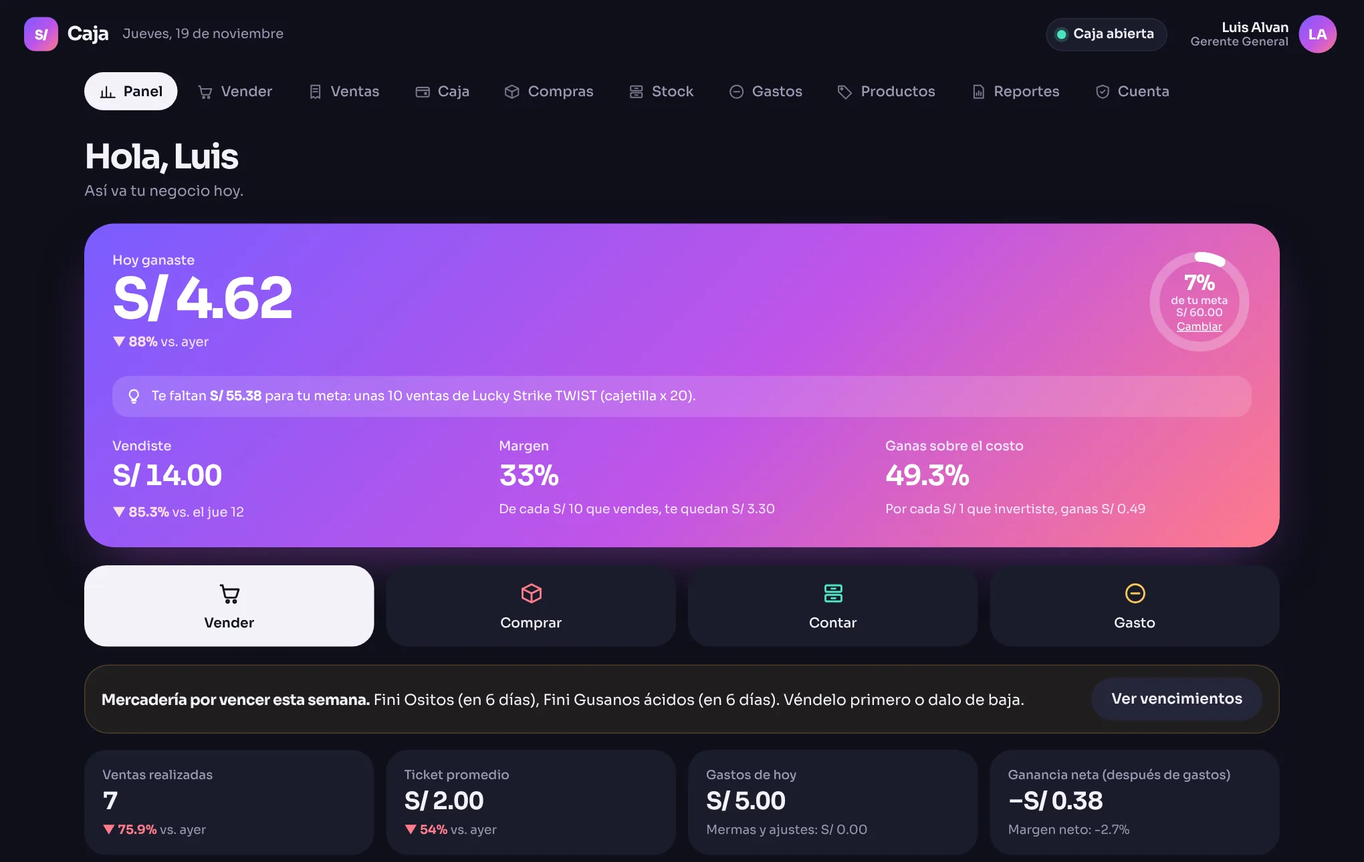
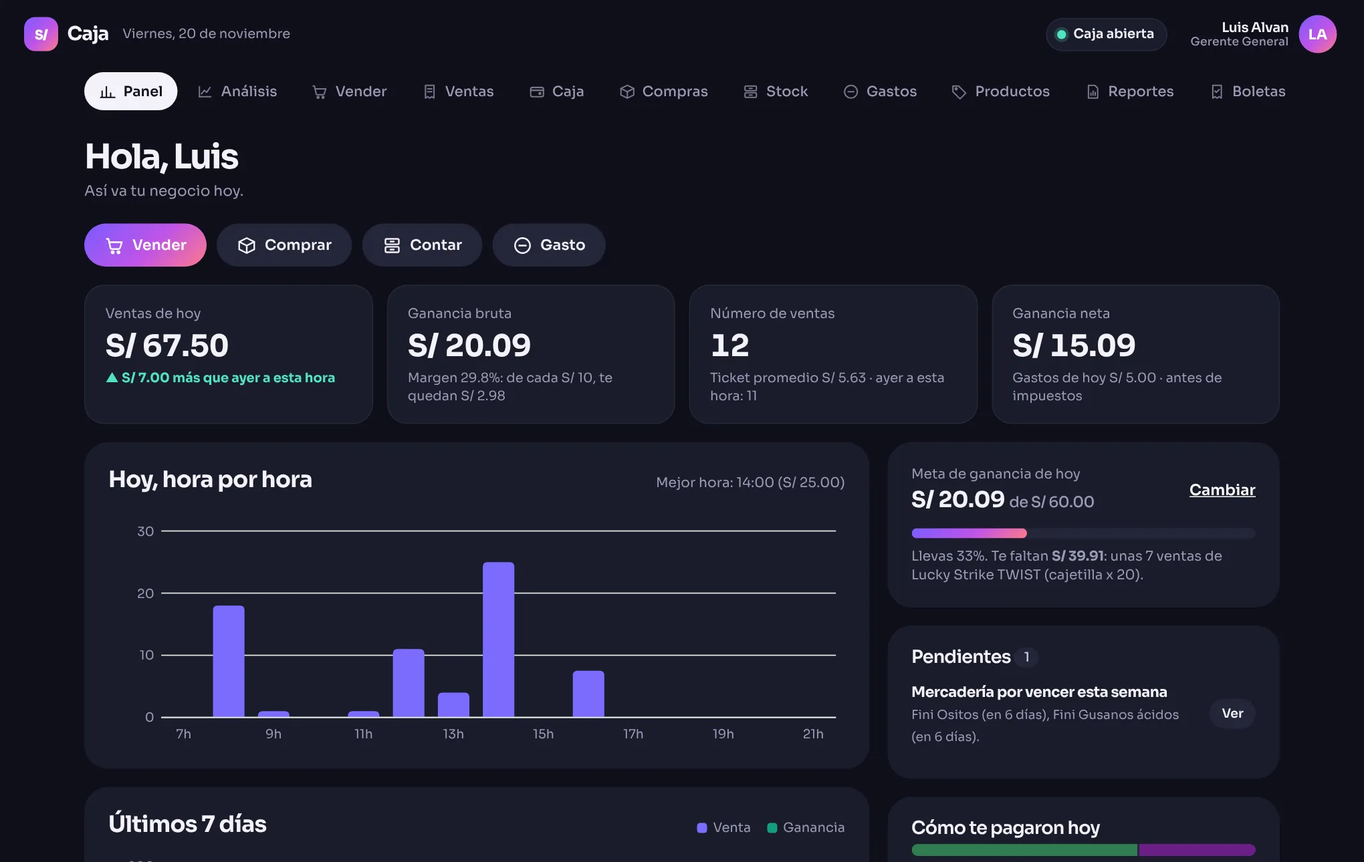
Panel rediseñado: indicadores sobrios, comparaciones en soles y dos columnas
- Sin el bloque de degradado: 4 indicadores del mismo peso (ventas, ganancia bruta, n.º de ventas, ganancia neta)
- Comparación en soles contra ayer a la misma hora (sin porcentajes engañosos con pocas ventas)
- Laptop: hoy (gráficos y productos) a la izquierda; meta, pendientes, cobros, boletas y resumen a la derecha
- Celular: orden lógico, sin desbordes; meta como barra; resumen y recordatorio plegables
- Acciones rápidas compactas; capturas del README actualizadas; 80 pruebas

Claude-Session: https://claude.ai/code/session_01A819e7RNk7XQ6c1SRtXq9S

diff --git a/index.html b/index.html
@@ -4,7 +4,7 @@
 <meta charset="utf-8">
 <meta name="referrer" content="no-referrer">
 <meta name="viewport" content="width=device-width, initial-scale=1, viewport-fit=cover">
-<meta http-equiv="Content-Security-Policy" content="default-src 'none'; script-src https://cdn.jsdelivr.net 'wasm-unsafe-eval' 'sha256-YQQNBGWMDX6Y83OlLrINX8KFzgg1oJWk24QcOodCahM='; style-src 'unsafe-inline' https://fonts.googleapis.com; font-src https://fonts.gstatic.com; img-src 'self' data: blob:; worker-src 'self' blob:; connect-src 'self' https://keygysddihxgukmdggyy.supabase.co wss://keygysddihxgukmdggyy.supabase.co https://cdn.jsdelivr.net https://api.pwnedpasswords.com; base-uri 'none'; form-action 'none'; manifest-src 'self'">
+<meta http-equiv="Content-Security-Policy" content="default-src 'none'; script-src https://cdn.jsdelivr.net 'wasm-unsafe-eval' 'sha256-FPF6I+OpfKEM0rt603rw0XiWgP4hmSzxKcH5LOtzemY='; style-src 'unsafe-inline' https://fonts.googleapis.com; font-src https://fonts.gstatic.com; img-src 'self' data: blob:; worker-src 'self' blob:; connect-src 'self' https://keygysddihxgukmdggyy.supabase.co wss://keygysddihxgukmdggyy.supabase.co https://cdn.jsdelivr.net https://api.pwnedpasswords.com; base-uri 'none'; form-action 'none'; manifest-src 'self'">
 <meta name="referrer" content="no-referrer">
 <meta name="theme-color" content="#0E0F1A">
 <link rel="manifest" href="manifest.webmanifest">
@@ -502,6 +502,28 @@ a.btn{text-decoration:none}#alertaCierreBar>div{flex:1;min-width:0}#alertaCierre
 .mad-fila b{display:block;font-size:14px}.mad-fila small{color:var(--gris);font-size:12.5px}.mad-fila span{font-size:13px;color:var(--gris);text-align:right}
 .mad-barra{height:8px;background:var(--tono);border-radius:4px;overflow:hidden}.mad-barra i{display:block;height:100%;background:var(--ambar)}.mad-fila.ok .mad-barra i{background:var(--menta)}.mad-fila.ok span{color:var(--menta)}
 @media(max-width:600px){.cas-fila{grid-template-columns:1fr auto}.cas-barra{grid-column:1/-1;order:3}.mad-fila{grid-template-columns:1fr 64px}.mad-barra{grid-column:1/-1;order:3}}
+.pn-acciones{display:flex;gap:10px;flex-wrap:wrap;margin:0 0 18px}
+.pn-acciones .btn{display:inline-flex;align-items:center;gap:8px}
+.pn-acciones .btn svg{width:20px;height:20px}
+.pn-kpis{display:grid;gap:14px;grid-template-columns:repeat(4,minmax(0,1fr));margin-bottom:18px}
+.pn-kpi{background:var(--blanco);border:1px solid #FFFFFF0F;border-radius:20px;padding:18px 20px;display:flex;flex-direction:column;gap:6px;min-width:0}
+.pn-kpi small{color:var(--gris);font-size:13.5px}
+.pn-kpi>b{font-size:30px;line-height:1.1;letter-spacing:-.02em;font-variant-numeric:tabular-nums}
+.pn-cmp{color:var(--gris);font-size:13px;line-height:1.4}.pn-cmp.sube{color:var(--menta)}.pn-cmp.baja{color:var(--coral)}
+.pn-grid{display:grid;gap:18px;grid-template-columns:minmax(0,1fr);grid-template-areas:"s1" "m" "s2"}
+.pn-s1{grid-area:s1}.pn-m{grid-area:m}.pn-s2{grid-area:s2}
+.pn-s1,.pn-m,.pn-s2{display:grid;grid-template-columns:minmax(0,1fr);gap:18px;align-content:start;min-width:0}
+.pn-s1>.panel,.pn-m>.panel,.pn-s2>.panel,.pn-s2>#boletasPanel>.panel{margin:0}
+@media(min-width:1000px){.pn-grid{grid-template-columns:minmax(0,2fr) minmax(300px,1fr);grid-template-rows:auto 1fr;grid-template-areas:"m s1" "m s2";align-items:start}}
+.pn-cab{display:flex;justify-content:space-between;align-items:baseline;gap:12px;flex-wrap:wrap;margin-bottom:10px}.pn-cab h2{margin:0}
+.pn-meta-cab{display:flex;justify-content:space-between;align-items:center;gap:12px}
+.pn-meta-cab small{color:var(--gris);font-size:13.5px;display:block}.pn-meta-cab b{font-size:22px}.pn-meta-cab b span{font-size:15px;color:var(--gris);font-weight:500}
+.pn-meta-vacia{color:var(--gris)}
+.pn-meta-barra{height:10px;background:var(--tono);border-radius:6px;overflow:hidden;margin-top:12px}.pn-meta-barra i{display:block;height:100%;background:var(--brillo);border-radius:6px}
+.pn-det{margin-top:12px}.pn-det summary{cursor:pointer;color:var(--gris);font-size:14px}.pn-det .envio-txt{margin-top:10px}
+.pn-s2 .envio-btns{display:flex;gap:8px;flex-wrap:wrap;margin-top:6px}
+@media(max-width:999px){.pn-kpis{grid-template-columns:repeat(2,minmax(0,1fr))}}
+@media(max-width:420px){.pn-kpi{padding:14px 16px}.pn-kpi>b{font-size:24px}.pn-acciones .btn{flex:1 1 calc(50% - 10px);justify-content:center}}
 .acciones-pagina{display:flex;gap:10px;flex-wrap:wrap;margin:0 0 18px}.acciones-pagina .btn{gap:8px;padding:13px 20px}
 .cats{display:grid;grid-template-columns:repeat(auto-fill,minmax(250px,1fr));gap:12px;margin-top:14px}
 .cat-card{background:var(--tono);border:0;border-radius:20px;padding:16px;text-align:left;color:var(--texto);font:inherit;display:flex;flex-direction:column;gap:12px}
@@ -1212,46 +1234,66 @@ async function vPanel(el) {
     !con2 && { t: 'Tu cuenta solo tiene contraseña', d: 'Activa la verificación en dos pasos: sin el código de tu celular nadie entra.', b: '<button class="btn claro mini" data-ir="cuenta">Activar</button>' },
     (resp === null || resp >= 7) && { t: resp === null ? 'Aún no tienes copia de seguridad' : `Tu última copia fue hace ${resp} días`, d: 'Descárgala en un minuto para no perder tus datos.', b: '<button class="btn claro mini" data-ir="cuenta">Hacer copia</button>' },
   ].filter(Boolean);
+  // Comparación en soles (no en %): con pocas ventas, un porcentaje exagera cualquier diferencia
+  const cmpS = (hoyV, ref, txt) => {
+    if (ref == null) return '';
+    const dif = r2(hoyV - ref);
+    if (hoyV === 0 && ref === 0) return `<span class="pn-cmp">${txt[0].toUpperCase() + txt.slice(1)}: sin ventas</span>`;
+    if (hoyV === 0) return `<span class="pn-cmp">${txt[0].toUpperCase() + txt.slice(1)}: ${S(ref)}</span>`;
+    if (Math.abs(dif) < 0.005) return `<span class="pn-cmp">Igual que ${txt}</span>`;
+    return `<span class="pn-cmp ${dif > 0 ? 'sube' : 'baja'}">${dif > 0 ? '▲' : '▼'} ${S(Math.abs(dif))} ${dif > 0 ? 'más' : 'menos'} que ${txt}</span>`;
+  };
+  const fechaHoy = new Date(h + 'T12:00:00-05:00').toLocaleDateString('es-PE', { timeZone: 'America/Lima', weekday: 'long', day: 'numeric', month: 'long' });
   el.innerHTML = `
-  <section class="heroe" aria-label="Rendimiento de hoy">
-    <div class="heroe-top"><div><small>Ganancia bruta de hoy</small><div class="grande">${S(gb(H0))}</div>${ayerHora ? variacion(gb(H0), ayerHora.ganancia, 'vs. ayer a esta hora') : ''}</div>
-      ${meta ? `<div class="anillo" role="progressbar" aria-label="Meta del día" aria-valuemin="0" aria-valuemax="100" aria-valuenow="${Math.round(Math.min(avance, 100))}"><svg viewBox="0 0 36 36"><circle cx="18" cy="18" r="15.5" class="pista"/><circle cx="18" cy="18" r="15.5" class="avance" stroke-dasharray="${(Math.min(avance, 100) * 0.974).toFixed(1)} 97.4"/></svg>
-        <div><b>${avance >= 100 ? '¡Listo!' : Math.floor(avance) + '%'}</b><small>de tu meta<br>${S(meta)}</small><button id="metaCambiar">Cambiar</button></div></div>`
-      : `<button class="lnk claro-lnk" id="metaCambiar">Ponerte una meta diaria</button>`}</div>
-    ${meta && avance < 100 ? `<p class="consejo">${icoTip}<span>Te faltan <b>${S(meta - gb(H0))}</b> para tu meta${faltan ? `: unas ${faltan}` : ''}.</span></p>` : meta ? `<p class="consejo">${icoTip}<span><b>¡Cumpliste tu meta!</b> Ganaste ${S(gb(H0) - meta)} más de lo que te propusiste.</span></p>` : `<p class="consejo">${icoTip}<span><b>Ganancia</b> es lo que vendiste menos lo que te costó la mercadería.</span></p>`}
-    <div><small>Vendiste</small><div class="med">${S(vn(H0))}</div>${semHora ? variacion(vn(H0), semHora.venta, 'vs. el ' + nomDia(semana).replace('.', '') + ' a esta hora') : ''}</div>
-    <div><small>Margen</small><div class="med">${margen(H0) === null ? '—' : P(margen(H0))}</div><div class="explica">${margen(H0) === null ? 'Aparece cuando vendas' : `De cada S/ 10 que vendes, te quedan ${S(margen(H0) / 10)}`}</div></div>
-    <div><small>Ventas realizadas</small><div class="med">${nVentas}</div><div class="explica">${nVentas ? `Ticket promedio ${S(ticketProm)}` : 'Aún no vendes hoy'}${ayerHora ? ` · ayer a esta hora: ${ayerHora.n}` : ''}</div></div>
+  <div class="pn-acciones" aria-label="Accesos rápidos">
+    <button class="btn rotulo" data-ir="vender">${ico('vender', 20)}<span>Vender</span></button>
+    <button class="btn claro" data-ir="compras">${ico('compras', 20)}<span>Comprar</span></button>
+    <button class="btn claro" data-ir="stock">${ico('stock', 20)}<span>Contar</span></button>
+    <button class="btn claro" data-ir="gastos">${ico('gastos', 20)}<span>Gasto</span></button>
+  </div>
+  <section class="pn-kpis" aria-label="Indicadores de hoy, ${fechaHoy}">
+    <div class="pn-kpi"><small>Ventas de hoy</small><b>${S(vn(H0))}</b>${cmpS(vn(H0), ayerHora?.venta ?? null, 'ayer a esta hora')}</div>
+    <div class="pn-kpi"><small>Ganancia bruta</small><b>${S(gb(H0))}</b><span class="pn-cmp">${margen(H0) === null ? 'Margen: aparece cuando vendas' : `Margen ${P(margen(H0))}: de cada S/ 10, te quedan ${S(margen(H0) / 10)}`}</span></div>
+    <div class="pn-kpi"><small>Número de ventas</small><b>${nVentas}</b><span class="pn-cmp">${nVentas ? `Ticket promedio ${S(ticketProm)}` : 'Aún no vendes hoy'}${ayerHora ? ` · ayer a esta hora: ${ayerHora.n}` : ''}</span></div>
+    <div class="pn-kpi"><small>Ganancia neta</small><b>${S(gn(H0))}</b><span class="pn-cmp">${gastosMes ? `Gastos de hoy ${S(gastos(H0))} · antes de impuestos` : '<span class="chip mal">Sin gastos registrados: sobrestimada</span>'}</span></div>
   </section>
-  <nav class="atajos" aria-label="Accesos rápidos"><button data-ir="vender">${ico('vender', 24)}<span>Vender</span></button><button data-ir="compras">${ico('compras', 24)}<span>Comprar</span></button><button data-ir="stock">${ico('stock', 24)}<span>Contar</span></button><button data-ir="gastos">${ico('gastos', 24)}<span>Gasto</span></button></nav>
-  ${pintarPendientes2(pendientes)}
-  <div class="cifras">
-    <div class="cifra"><small>Gastos de hoy</small><b>${S(gastos(H0))}</b><div class="cmp">Mermas y ajustes: ${S(num(H0.de_ello_mermas_ajustes))}</div></div>
-    <div class="cifra"><small>Ganancia neta (antes de impuestos)</small><b>${S(gn(H0))}</b><div class="cmp">${gastosMes ? `Margen neto: ${margenNeto(H0) === null ? '—' : P(margenNeto(H0))}` : '<span class="chip mal">Sin gastos registrados en 30 días</span>'}</div></div>
-  </div>
-  ${alertas.length ? `<div class="panel alerta" id="alertaPrecios"><h2>${alertas.length === 1 ? 'Un precio deja' : alertas.length + ' precios dejan'} menos de tu margen mínimo (${P(umbral())})</h2>
-    <p class="sub">Con el costo promedio de tus compras actuales. El precio mínimo es el más bajo al que ganas tu margen mínimo.</p>${tablaAlertas(alertas)}
-    <button class="btn" style="margin-top:12px" data-ir="catalogo">Ajustar precios</button></div>` : ''}
-  <div id="boletasPanel"></div>
-  <div class="panel envio"><div class="envio-cab"><div><h2>Resumen del día</h2><p class="sub">Envíatelo por WhatsApp para tenerlo a la mano. Elige tu propio chat ("Tú") o el de quien quieras.</p></div>
-    <div class="envio-btns"><a class="btn" id="resWa" target="_blank" rel="noopener noreferrer">Enviar por WhatsApp</a><button class="btn claro" id="resCopiar">Copiar</button>${navigator.share ? '<button class="btn claro" id="resCompartir">Compartir</button>' : ''}</div></div>
-    <pre class="envio-txt" id="resTxt"></pre>
-    <div class="recordar"><div><b>Recordatorio cada noche</b><p class="sub" style="margin:2px 0 0">Se agrega a tu calendario y te avisa a la hora que elijas para cerrar caja y enviarte esto.</p></div>
-      <div class="fila"><div><label for="recHora">Hora</label><select id="recHora">${[17, 18, 19, 20, 21, 22, 23].map(x => `<option value="${x}" ${x === horaCierre() ? 'selected' : ''}>${x - 12}:00 p. m.</option>`).join('')}</select></div>
-      <div class="auto"><a class="btn claro" id="recAgregar" href="recordatorio/cierre-${horaCierre()}.ics">Agregar a mi calendario</a></div></div></div></div>
-  <div class="cols dos">
-    <div class="panel"><h2>Ventas por hora</h2><p class="sub">${mejorHora !== undefined ? `Tu mejor hora hoy: ${mejorHora}:00 a ${mejorHora + 1}:00, con ${S(porHora[mejorHora].v)}.` : 'Todavía no hay ventas hoy.'}</p><div id="gHoras"></div></div>
-    <div class="panel"><h2>Últimos 7 días</h2><p class="sub">Venta y ganancia bruta de cada día.</p>
-      <div class="leyenda"><span style="--c:${COL_VENTA}">Venta</span><span style="--c:${COL_GAN}">Ganancia</span></div><div id="g7"></div></div>
-  </div>
-  <div class="cols dos">
-    <div class="panel"><h2>Qué te dejó más ganancia hoy</h2>${top.length ? `<div class="scroll"><table><tr><th>Producto</th><th class="n">Unidades</th><th class="n">Venta</th><th class="n">Ganancia</th><th class="n">Margen</th></tr>
-      ${top.map(([k, o]) => `<tr><td>${esc(nomProd[k] || '')}</td><td class="n">${N(o.c)}</td><td class="n">${S(o.v)}</td><td class="n"><b>${S(o.v - o.k)}</b></td><td class="n">${o.v > 0 ? P((o.v - o.k) / o.v * 100) : '—'}</td></tr>`).join('')}</table></div>`
-      : '<p class="vacio">Cuando vendas, aquí verás qué producto rinde más.</p>'}</div>
-    <div class="panel"><h2>Cómo te pagaron hoy</h2>
-      ${totMedios ? `<div class="barra-medio" role="img" aria-label="Reparto por medio de pago">${medios(MEDIOS_VENTA).filter(m => porMedio[m.id] > 0).map(m => `<div style="width:${porMedio[m.id] / totMedios * 100}%;background:${COLOR_MEDIO[m.codigo]}" title="${esc(m.nombre)}"></div>`).join('')}</div>` : '<p class="sub">Aún no hay cobros hoy.</p>'}
-      <table>${medios(MEDIOS_VENTA).map(m => `<tr><td><span class="punto" style="background:${COLOR_MEDIO[m.codigo]}"></span>${esc(m.nombre)}</td><td class="n">${S(porMedio[m.id])}</td><td class="n sub">${totMedios ? P(num(porMedio[m.id]) / totMedios * 100) : ''}</td></tr>`).join('')}</table>
-      <h3>Por reponer</h3>${reponer.length ? `<table>${reponer.map(r => `<tr><td>${esc(r.producto)}</td><td class="n"><span class="chip mal">quedan ${N(r.cantidad)}</span></td></tr>`).join('')}</table>` : '<p class="sub" style="margin:0">Todo con stock suficiente.</p>'}
+  <div class="pn-grid">
+    <div class="pn-s1">
+      <section class="panel pn-meta">
+        ${meta ? `<div class="pn-meta-cab"><div><small>Meta de ganancia de hoy</small><b>${S(gb(H0))} <span>de ${S(meta)}</span></b></div><button class="lnk" id="metaCambiar">Cambiar</button></div>
+          <div class="pn-meta-barra" role="progressbar" aria-label="Avance de la meta" aria-valuemin="0" aria-valuemax="100" aria-valuenow="${Math.round(Math.min(avance, 100))}"><i style="width:${Math.min(100, avance)}%"></i></div>
+          <p class="sub" style="margin:8px 0 0">${avance >= 100 ? `<b>¡Meta cumplida!</b> Ganaste ${S(gb(H0) - meta)} más de lo que te propusiste.` : `Llevas ${Math.floor(avance)}%. Te faltan <b>${S(meta - gb(H0))}</b>${faltan ? `: unas ${faltan}` : ''}.`}</p>`
+        : `<div class="pn-meta-cab"><div><small>Meta del día</small><b class="pn-meta-vacia">Sin meta</b></div><button class="btn claro mini" id="metaCambiar">Ponerte una meta</button></div>
+          <p class="sub" style="margin:8px 0 0">Una meta diaria de ganancia te dice cuántas ventas te faltan cada día.</p>`}
+      </section>
+      ${pintarPendientes2(pendientes)}
+    </div>
+    <div class="pn-m">
+      <section class="panel"><div class="pn-cab"><h2>Hoy, hora por hora</h2><span class="sub">${mejorHora !== undefined ? `Mejor hora: ${mejorHora}:00 (${S(porHora[mejorHora].v)})` : 'Todavía no hay ventas hoy'}</span></div><div id="gHoras"></div></section>
+      <section class="panel"><div class="pn-cab"><h2>Últimos 7 días</h2><div class="leyenda" style="margin:0"><span style="--c:${COL_VENTA}">Venta</span><span style="--c:${COL_GAN}">Ganancia</span></div></div><div id="g7"></div>
+        <button class="lnk" data-ir="analisis" style="margin-top:10px">Ver el análisis completo →</button></section>
+      <section class="panel"><h2>Qué te dejó más ganancia hoy</h2>${top.length ? `<div class="scroll"><table><tr><th>Producto</th><th class="n">Ganancia</th><th class="n">Margen</th><th class="n">Unidades</th><th class="n">Venta</th></tr>
+        ${top.map(([k, o]) => `<tr><td>${esc(nomProd[k] || '')}</td><td class="n"><b>${S(o.v - o.k)}</b></td><td class="n">${o.v > 0 ? P((o.v - o.k) / o.v * 100) : '—'}</td><td class="n">${N(o.c)}</td><td class="n">${S(o.v)}</td></tr>`).join('')}</table></div>`
+        : '<p class="vacio">Cuando vendas, aquí verás qué producto rinde más.</p>'}</section>
+      ${alertas.length ? `<section class="panel alerta" id="alertaPrecios"><h2>${alertas.length === 1 ? 'Un precio deja' : alertas.length + ' precios dejan'} menos de tu margen mínimo (${P(umbral())})</h2>
+        <p class="sub">Con el costo promedio de tus compras actuales. El precio mínimo es el más bajo al que ganas tu margen mínimo.</p>${tablaAlertas(alertas)}
+        <button class="btn" style="margin-top:12px" data-ir="catalogo">Ajustar precios</button></section>` : ''}
+    </div>
+    <div class="pn-s2">
+      <section class="panel"><h2>Cómo te pagaron hoy</h2>
+        ${totMedios ? `<div class="barra-medio" role="img" aria-label="Reparto por medio de pago">${medios(MEDIOS_VENTA).filter(m => porMedio[m.id] > 0).map(m => `<div style="width:${porMedio[m.id] / totMedios * 100}%;background:${COLOR_MEDIO[m.codigo]}" title="${esc(m.nombre)}"></div>`).join('')}</div>
+        <table>${medios(MEDIOS_VENTA).filter(m => porMedio[m.id] > 0).map(m => `<tr><td><span class="punto" style="background:${COLOR_MEDIO[m.codigo]}"></span>${esc(m.nombre)}</td><td class="n">${S(porMedio[m.id])}</td><td class="n sub">${P(num(porMedio[m.id]) / totMedios * 100)}</td></tr>`).join('')}</table>` : '<p class="sub" style="margin:0">Aún no hay cobros hoy.</p>'}
+      </section>
+      <section class="panel"><h2>Por reponer</h2>${reponer.length ? `<table>${reponer.map(r => `<tr><td>${esc(r.producto)}</td><td class="n"><span class="chip mal">quedan ${N(r.cantidad)}</span></td></tr>`).join('')}</table>` : '<p class="sub" style="margin:0">Todo con stock suficiente.</p>'}</section>
+      <div id="boletasPanel"></div>
+      <section class="panel envio"><h2>Resumen del día</h2><p class="sub">Envíatelo por WhatsApp para tenerlo a la mano.</p>
+        <div class="envio-btns"><a class="btn wsp" id="resWa" target="_blank" rel="noopener noreferrer">Enviar por WhatsApp</a><button class="btn claro" id="resCopiar">Copiar</button>${navigator.share ? '<button class="btn claro" id="resCompartir">Compartir</button>' : ''}</div>
+        <details class="pn-det"><summary>Ver el texto</summary><pre class="envio-txt" id="resTxt"></pre></details>
+        <details class="pn-det"><summary>Recordatorio cada noche</summary>
+          <p class="sub" style="margin:6px 0 8px">Se agrega a tu calendario y te avisa a la hora que elijas para cerrar caja y enviarte esto.</p>
+          <div class="fila"><div><label for="recHora">Hora</label><select id="recHora">${[17, 18, 19, 20, 21, 22, 23].map(x => `<option value="${x}" ${x === horaCierre() ? 'selected' : ''}>${x - 12}:00 p. m.</option>`).join('')}</select></div>
+          <div class="auto"><a class="btn claro" id="recAgregar" href="recordatorio/cierre-${horaCierre()}.ics">Agregar a mi calendario</a></div></div></details>
+      </section>
     </div>
   </div>`;
   // Texto del resumen (negritas con *asteriscos*, formato de WhatsApp)

diff --git a/demo/index.html b/demo/index.html
@@ -4,7 +4,7 @@
 <meta charset="utf-8">
 <meta name="referrer" content="no-referrer">
 <meta name="viewport" content="width=device-width, initial-scale=1, viewport-fit=cover">
-<meta http-equiv="Content-Security-Policy" content="default-src 'none'; script-src 'self' https://cdn.jsdelivr.net 'wasm-unsafe-eval' 'sha256-wpI/1c66jdnbKgVSas5z5b1Ihu+5xCi/ScUCEBBaxyk='; style-src 'unsafe-inline' https://fonts.googleapis.com; font-src https://fonts.gstatic.com; img-src 'self' data: blob:; worker-src 'self' blob:; connect-src https://cdn.jsdelivr.net https://api.pwnedpasswords.com; base-uri 'none'; form-action 'none'; manifest-src 'self'">
+<meta http-equiv="Content-Security-Policy" content="default-src 'none'; script-src 'self' https://cdn.jsdelivr.net 'wasm-unsafe-eval' 'sha256-4nzPW/VsnE6W+7ZIQLn399GryTCo8cNd7zxmm96t2zU='; style-src 'unsafe-inline' https://fonts.googleapis.com; font-src https://fonts.gstatic.com; img-src 'self' data: blob:; worker-src 'self' blob:; connect-src https://cdn.jsdelivr.net https://api.pwnedpasswords.com; base-uri 'none'; form-action 'none'; manifest-src 'self'">
 <meta name="referrer" content="no-referrer">
 <meta name="theme-color" content="#0E0F1A">
 <link rel="icon" type="image/png" href="../favicon.png">
@@ -502,6 +502,28 @@ a.btn{text-decoration:none}#alertaCierreBar>div{flex:1;min-width:0}#alertaCierre
 .mad-fila b{display:block;font-size:14px}.mad-fila small{color:var(--gris);font-size:12.5px}.mad-fila span{font-size:13px;color:var(--gris);text-align:right}
 .mad-barra{height:8px;background:var(--tono);border-radius:4px;overflow:hidden}.mad-barra i{display:block;height:100%;background:var(--ambar)}.mad-fila.ok .mad-barra i{background:var(--menta)}.mad-fila.ok span{color:var(--menta)}
 @media(max-width:600px){.cas-fila{grid-template-columns:1fr auto}.cas-barra{grid-column:1/-1;order:3}.mad-fila{grid-template-columns:1fr 64px}.mad-barra{grid-column:1/-1;order:3}}
+.pn-acciones{display:flex;gap:10px;flex-wrap:wrap;margin:0 0 18px}
+.pn-acciones .btn{display:inline-flex;align-items:center;gap:8px}
+.pn-acciones .btn svg{width:20px;height:20px}
+.pn-kpis{display:grid;gap:14px;grid-template-columns:repeat(4,minmax(0,1fr));margin-bottom:18px}
+.pn-kpi{background:var(--blanco);border:1px solid #FFFFFF0F;border-radius:20px;padding:18px 20px;display:flex;flex-direction:column;gap:6px;min-width:0}
+.pn-kpi small{color:var(--gris);font-size:13.5px}
+.pn-kpi>b{font-size:30px;line-height:1.1;letter-spacing:-.02em;font-variant-numeric:tabular-nums}
+.pn-cmp{color:var(--gris);font-size:13px;line-height:1.4}.pn-cmp.sube{color:var(--menta)}.pn-cmp.baja{color:var(--coral)}
+.pn-grid{display:grid;gap:18px;grid-template-columns:minmax(0,1fr);grid-template-areas:"s1" "m" "s2"}
+.pn-s1{grid-area:s1}.pn-m{grid-area:m}.pn-s2{grid-area:s2}
+.pn-s1,.pn-m,.pn-s2{display:grid;grid-template-columns:minmax(0,1fr);gap:18px;align-content:start;min-width:0}
+.pn-s1>.panel,.pn-m>.panel,.pn-s2>.panel,.pn-s2>#boletasPanel>.panel{margin:0}
+@media(min-width:1000px){.pn-grid{grid-template-columns:minmax(0,2fr) minmax(300px,1fr);grid-template-rows:auto 1fr;grid-template-areas:"m s1" "m s2";align-items:start}}
+.pn-cab{display:flex;justify-content:space-between;align-items:baseline;gap:12px;flex-wrap:wrap;margin-bottom:10px}.pn-cab h2{margin:0}
+.pn-meta-cab{display:flex;justify-content:space-between;align-items:center;gap:12px}
+.pn-meta-cab small{color:var(--gris);font-size:13.5px;display:block}.pn-meta-cab b{font-size:22px}.pn-meta-cab b span{font-size:15px;color:var(--gris);font-weight:500}
+.pn-meta-vacia{color:var(--gris)}
+.pn-meta-barra{height:10px;background:var(--tono);border-radius:6px;overflow:hidden;margin-top:12px}.pn-meta-barra i{display:block;height:100%;background:var(--brillo);border-radius:6px}
+.pn-det{margin-top:12px}.pn-det summary{cursor:pointer;color:var(--gris);font-size:14px}.pn-det .envio-txt{margin-top:10px}
+.pn-s2 .envio-btns{display:flex;gap:8px;flex-wrap:wrap;margin-top:6px}
+@media(max-width:999px){.pn-kpis{grid-template-columns:repeat(2,minmax(0,1fr))}}
+@media(max-width:420px){.pn-kpi{padding:14px 16px}.pn-kpi>b{font-size:24px}.pn-acciones .btn{flex:1 1 calc(50% - 10px);justify-content:center}}
 .acciones-pagina{display:flex;gap:10px;flex-wrap:wrap;margin:0 0 18px}.acciones-pagina .btn{gap:8px;padding:13px 20px}
 .cats{display:grid;grid-template-columns:repeat(auto-fill,minmax(250px,1fr));gap:12px;margin-top:14px}
 .cat-card{background:var(--tono);border:0;border-radius:20px;padding:16px;text-align:left;color:var(--texto);font:inherit;display:flex;flex-direction:column;gap:12px}
@@ -1217,46 +1239,66 @@ async function vPanel(el) {
     !con2 && { t: 'Tu cuenta solo tiene contraseña', d: 'Activa la verificación en dos pasos: sin el código de tu celular nadie entra.', b: '<button class="btn claro mini" data-ir="cuenta">Activar</button>' },
     (resp === null || resp >= 7) && { t: resp === null ? 'Aún no tienes copia de seguridad' : `Tu última copia fue hace ${resp} días`, d: 'Descárgala en un minuto para no perder tus datos.', b: '<button class="btn claro mini" data-ir="cuenta">Hacer copia</button>' },
   ].filter(Boolean);
+  // Comparación en soles (no en %): con pocas ventas, un porcentaje exagera cualquier diferencia
+  const cmpS = (hoyV, ref, txt) => {
+    if (ref == null) return '';
+    const dif = r2(hoyV - ref);
+    if (hoyV === 0 && ref === 0) return `<span class="pn-cmp">${txt[0].toUpperCase() + txt.slice(1)}: sin ventas</span>`;
+    if (hoyV === 0) return `<span class="pn-cmp">${txt[0].toUpperCase() + txt.slice(1)}: ${S(ref)}</span>`;
+    if (Math.abs(dif) < 0.005) return `<span class="pn-cmp">Igual que ${txt}</span>`;
+    return `<span class="pn-cmp ${dif > 0 ? 'sube' : 'baja'}">${dif > 0 ? '▲' : '▼'} ${S(Math.abs(dif))} ${dif > 0 ? 'más' : 'menos'} que ${txt}</span>`;
+  };
+  const fechaHoy = new Date(h + 'T12:00:00-05:00').toLocaleDateString('es-PE', { timeZone: 'America/Lima', weekday: 'long', day: 'numeric', month: 'long' });
   el.innerHTML = `
-  <section class="heroe" aria-label="Rendimiento de hoy">
-    <div class="heroe-top"><div><small>Ganancia bruta de hoy</small><div class="grande">${S(gb(H0))}</div>${ayerHora ? variacion(gb(H0), ayerHora.ganancia, 'vs. ayer a esta hora') : ''}</div>
-      ${meta ? `<div class="anillo" role="progressbar" aria-label="Meta del día" aria-valuemin="0" aria-valuemax="100" aria-valuenow="${Math.round(Math.min(avance, 100))}"><svg viewBox="0 0 36 36"><circle cx="18" cy="18" r="15.5" class="pista"/><circle cx="18" cy="18" r="15.5" class="avance" stroke-dasharray="${(Math.min(avance, 100) * 0.974).toFixed(1)} 97.4"/></svg>
-        <div><b>${avance >= 100 ? '¡Listo!' : Math.floor(avance) + '%'}</b><small>de tu meta<br>${S(meta)}</small><button id="metaCambiar">Cambiar</button></div></div>`
-      : `<button class="lnk claro-lnk" id="metaCambiar">Ponerte una meta diaria</button>`}</div>
-    ${meta && avance < 100 ? `<p class="consejo">${icoTip}<span>Te faltan <b>${S(meta - gb(H0))}</b> para tu meta${faltan ? `: unas ${faltan}` : ''}.</span></p>` : meta ? `<p class="consejo">${icoTip}<span><b>¡Cumpliste tu meta!</b> Ganaste ${S(gb(H0) - meta)} más de lo que te propusiste.</span></p>` : `<p class="consejo">${icoTip}<span><b>Ganancia</b> es lo que vendiste menos lo que te costó la mercadería.</span></p>`}
-    <div><small>Vendiste</small><div class="med">${S(vn(H0))}</div>${semHora ? variacion(vn(H0), semHora.venta, 'vs. el ' + nomDia(semana).replace('.', '') + ' a esta hora') : ''}</div>
-    <div><small>Margen</small><div class="med">${margen(H0) === null ? '—' : P(margen(H0))}</div><div class="explica">${margen(H0) === null ? 'Aparece cuando vendas' : `De cada S/ 10 que vendes, te quedan ${S(margen(H0) / 10)}`}</div></div>
-    <div><small>Ventas realizadas</small><div class="med">${nVentas}</div><div class="explica">${nVentas ? `Ticket promedio ${S(ticketProm)}` : 'Aún no vendes hoy'}${ayerHora ? ` · ayer a esta hora: ${ayerHora.n}` : ''}</div></div>
+  <div class="pn-acciones" aria-label="Accesos rápidos">
+    <button class="btn rotulo" data-ir="vender">${ico('vender', 20)}<span>Vender</span></button>
+    <button class="btn claro" data-ir="compras">${ico('compras', 20)}<span>Comprar</span></button>
+    <button class="btn claro" data-ir="stock">${ico('stock', 20)}<span>Contar</span></button>
+    <button class="btn claro" data-ir="gastos">${ico('gastos', 20)}<span>Gasto</span></button>
+  </div>
+  <section class="pn-kpis" aria-label="Indicadores de hoy, ${fechaHoy}">
+    <div class="pn-kpi"><small>Ventas de hoy</small><b>${S(vn(H0))}</b>${cmpS(vn(H0), ayerHora?.venta ?? null, 'ayer a esta hora')}</div>
+    <div class="pn-kpi"><small>Ganancia bruta</small><b>${S(gb(H0))}</b><span class="pn-cmp">${margen(H0) === null ? 'Margen: aparece cuando vendas' : `Margen ${P(margen(H0))}: de cada S/ 10, te quedan ${S(margen(H0) / 10)}`}</span></div>
+    <div class="pn-kpi"><small>Número de ventas</small><b>${nVentas}</b><span class="pn-cmp">${nVentas ? `Ticket promedio ${S(ticketProm)}` : 'Aún no vendes hoy'}${ayerHora ? ` · ayer a esta hora: ${ayerHora.n}` : ''}</span></div>
+    <div class="pn-kpi"><small>Ganancia neta</small><b>${S(gn(H0))}</b><span class="pn-cmp">${gastosMes ? `Gastos de hoy ${S(gastos(H0))} · antes de impuestos` : '<span class="chip mal">Sin gastos registrados: sobrestimada</span>'}</span></div>
   </section>
-  <nav class="atajos" aria-label="Accesos rápidos"><button data-ir="vender">${ico('vender', 24)}<span>Vender</span></button><button data-ir="compras">${ico('compras', 24)}<span>Comprar</span></button><button data-ir="stock">${ico('stock', 24)}<span>Contar</span></button><button data-ir="gastos">${ico('gastos', 24)}<span>Gasto</span></button></nav>
-  ${pintarPendientes2(pendientes)}
-  <div class="cifras">
-    <div class="cifra"><small>Gastos de hoy</small><b>${S(gastos(H0))}</b><div class="cmp">Mermas y ajustes: ${S(num(H0.de_ello_mermas_ajustes))}</div></div>
-    <div class="cifra"><small>Ganancia neta (antes de impuestos)</small><b>${S(gn(H0))}</b><div class="cmp">${gastosMes ? `Margen neto: ${margenNeto(H0) === null ? '—' : P(margenNeto(H0))}` : '<span class="chip mal">Sin gastos registrados en 30 días</span>'}</div></div>
-  </div>
-  ${alertas.length ? `<div class="panel alerta" id="alertaPrecios"><h2>${alertas.length === 1 ? 'Un precio deja' : alertas.length + ' precios dejan'} menos de tu margen mínimo (${P(umbral())})</h2>
-    <p class="sub">Con el costo promedio de tus compras actuales. El precio mínimo es el más bajo al que ganas tu margen mínimo.</p>${tablaAlertas(alertas)}
-    <button class="btn" style="margin-top:12px" data-ir="catalogo">Ajustar precios</button></div>` : ''}
-  <div id="boletasPanel"></div>
-  <div class="panel envio"><div class="envio-cab"><div><h2>Resumen del día</h2><p class="sub">Envíatelo por WhatsApp para tenerlo a la mano. Elige tu propio chat ("Tú") o el de quien quieras.</p></div>
-    <div class="envio-btns"><a class="btn" id="resWa" target="_blank" rel="noopener noreferrer">Enviar por WhatsApp</a><button class="btn claro" id="resCopiar">Copiar</button>${navigator.share ? '<button class="btn claro" id="resCompartir">Compartir</button>' : ''}</div></div>
-    <pre class="envio-txt" id="resTxt"></pre>
-    <div class="recordar"><div><b>Recordatorio cada noche</b><p class="sub" style="margin:2px 0 0">Se agrega a tu calendario y te avisa a la hora que elijas para cerrar caja y enviarte esto.</p></div>
-      <div class="fila"><div><label for="recHora">Hora</label><select id="recHora">${[17, 18, 19, 20, 21, 22, 23].map(x => `<option value="${x}" ${x === horaCierre() ? 'selected' : ''}>${x - 12}:00 p. m.</option>`).join('')}</select></div>
-      <div class="auto"><a class="btn claro" id="recAgregar" href="recordatorio/cierre-${horaCierre()}.ics">Agregar a mi calendario</a></div></div></div></div>
-  <div class="cols dos">
-    <div class="panel"><h2>Ventas por hora</h2><p class="sub">${mejorHora !== undefined ? `Tu mejor hora hoy: ${mejorHora}:00 a ${mejorHora + 1}:00, con ${S(porHora[mejorHora].v)}.` : 'Todavía no hay ventas hoy.'}</p><div id="gHoras"></div></div>
-    <div class="panel"><h2>Últimos 7 días</h2><p class="sub">Venta y ganancia bruta de cada día.</p>
-      <div class="leyenda"><span style="--c:${COL_VENTA}">Venta</span><span style="--c:${COL_GAN}">Ganancia</span></div><div id="g7"></div></div>
-  </div>
-  <div class="cols dos">
-    <div class="panel"><h2>Qué te dejó más ganancia hoy</h2>${top.length ? `<div class="scroll"><table><tr><th>Producto</th><th class="n">Unidades</th><th class="n">Venta</th><th class="n">Ganancia</th><th class="n">Margen</th></tr>
-      ${top.map(([k, o]) => `<tr><td>${esc(nomProd[k] || '')}</td><td class="n">${N(o.c)}</td><td class="n">${S(o.v)}</td><td class="n"><b>${S(o.v - o.k)}</b></td><td class="n">${o.v > 0 ? P((o.v - o.k) / o.v * 100) : '—'}</td></tr>`).join('')}</table></div>`
-      : '<p class="vacio">Cuando vendas, aquí verás qué producto rinde más.</p>'}</div>
-    <div class="panel"><h2>Cómo te pagaron hoy</h2>
-      ${totMedios ? `<div class="barra-medio" role="img" aria-label="Reparto por medio de pago">${medios(MEDIOS_VENTA).filter(m => porMedio[m.id] > 0).map(m => `<div style="width:${porMedio[m.id] / totMedios * 100}%;background:${COLOR_MEDIO[m.codigo]}" title="${esc(m.nombre)}"></div>`).join('')}</div>` : '<p class="sub">Aún no hay cobros hoy.</p>'}
-      <table>${medios(MEDIOS_VENTA).map(m => `<tr><td><span class="punto" style="background:${COLOR_MEDIO[m.codigo]}"></span>${esc(m.nombre)}</td><td class="n">${S(porMedio[m.id])}</td><td class="n sub">${totMedios ? P(num(porMedio[m.id]) / totMedios * 100) : ''}</td></tr>`).join('')}</table>
-      <h3>Por reponer</h3>${reponer.length ? `<table>${reponer.map(r => `<tr><td>${esc(r.producto)}</td><td class="n"><span class="chip mal">quedan ${N(r.cantidad)}</span></td></tr>`).join('')}</table>` : '<p class="sub" style="margin:0">Todo con stock suficiente.</p>'}
+  <div class="pn-grid">
+    <div class="pn-s1">
+      <section class="panel pn-meta">
+        ${meta ? `<div class="pn-meta-cab"><div><small>Meta de ganancia de hoy</small><b>${S(gb(H0))} <span>de ${S(meta)}</span></b></div><button class="lnk" id="metaCambiar">Cambiar</button></div>
+          <div class="pn-meta-barra" role="progressbar" aria-label="Avance de la meta" aria-valuemin="0" aria-valuemax="100" aria-valuenow="${Math.round(Math.min(avance, 100))}"><i style="width:${Math.min(100, avance)}%"></i></div>
+          <p class="sub" style="margin:8px 0 0">${avance >= 100 ? `<b>¡Meta cumplida!</b> Ganaste ${S(gb(H0) - meta)} más de lo que te propusiste.` : `Llevas ${Math.floor(avance)}%. Te faltan <b>${S(meta - gb(H0))}</b>${faltan ? `: unas ${faltan}` : ''}.`}</p>`
+        : `<div class="pn-meta-cab"><div><small>Meta del día</small><b class="pn-meta-vacia">Sin meta</b></div><button class="btn claro mini" id="metaCambiar">Ponerte una meta</button></div>
+          <p class="sub" style="margin:8px 0 0">Una meta diaria de ganancia te dice cuántas ventas te faltan cada día.</p>`}
+      </section>
+      ${pintarPendientes2(pendientes)}
+    </div>
+    <div class="pn-m">
+      <section class="panel"><div class="pn-cab"><h2>Hoy, hora por hora</h2><span class="sub">${mejorHora !== undefined ? `Mejor hora: ${mejorHora}:00 (${S(porHora[mejorHora].v)})` : 'Todavía no hay ventas hoy'}</span></div><div id="gHoras"></div></section>
+      <section class="panel"><div class="pn-cab"><h2>Últimos 7 días</h2><div class="leyenda" style="margin:0"><span style="--c:${COL_VENTA}">Venta</span><span style="--c:${COL_GAN}">Ganancia</span></div></div><div id="g7"></div>
+        <button class="lnk" data-ir="analisis" style="margin-top:10px">Ver el análisis completo →</button></section>
+      <section class="panel"><h2>Qué te dejó más ganancia hoy</h2>${top.length ? `<div class="scroll"><table><tr><th>Producto</th><th class="n">Ganancia</th><th class="n">Margen</th><th class="n">Unidades</th><th class="n">Venta</th></tr>
+        ${top.map(([k, o]) => `<tr><td>${esc(nomProd[k] || '')}</td><td class="n"><b>${S(o.v - o.k)}</b></td><td class="n">${o.v > 0 ? P((o.v - o.k) / o.v * 100) : '—'}</td><td class="n">${N(o.c)}</td><td class="n">${S(o.v)}</td></tr>`).join('')}</table></div>`
+        : '<p class="vacio">Cuando vendas, aquí verás qué producto rinde más.</p>'}</section>
+      ${alertas.length ? `<section class="panel alerta" id="alertaPrecios"><h2>${alertas.length === 1 ? 'Un precio deja' : alertas.length + ' precios dejan'} menos de tu margen mínimo (${P(umbral())})</h2>
+        <p class="sub">Con el costo promedio de tus compras actuales. El precio mínimo es el más bajo al que ganas tu margen mínimo.</p>${tablaAlertas(alertas)}
+        <button class="btn" style="margin-top:12px" data-ir="catalogo">Ajustar precios</button></section>` : ''}
+    </div>
+    <div class="pn-s2">
+      <section class="panel"><h2>Cómo te pagaron hoy</h2>
+        ${totMedios ? `<div class="barra-medio" role="img" aria-label="Reparto por medio de pago">${medios(MEDIOS_VENTA).filter(m => porMedio[m.id] > 0).map(m => `<div style="width:${porMedio[m.id] / totMedios * 100}%;background:${COLOR_MEDIO[m.codigo]}" title="${esc(m.nombre)}"></div>`).join('')}</div>
+        <table>${medios(MEDIOS_VENTA).filter(m => porMedio[m.id] > 0).map(m => `<tr><td><span class="punto" style="background:${COLOR_MEDIO[m.codigo]}"></span>${esc(m.nombre)}</td><td class="n">${S(porMedio[m.id])}</td><td class="n sub">${P(num(porMedio[m.id]) / totMedios * 100)}</td></tr>`).join('')}</table>` : '<p class="sub" style="margin:0">Aún no hay cobros hoy.</p>'}
+      </section>
+      <section class="panel"><h2>Por reponer</h2>${reponer.length ? `<table>${reponer.map(r => `<tr><td>${esc(r.producto)}</td><td class="n"><span class="chip mal">quedan ${N(r.cantidad)}</span></td></tr>`).join('')}</table>` : '<p class="sub" style="margin:0">Todo con stock suficiente.</p>'}</section>
+      <div id="boletasPanel"></div>
+      <section class="panel envio"><h2>Resumen del día</h2><p class="sub">Envíatelo por WhatsApp para tenerlo a la mano.</p>
+        <div class="envio-btns"><a class="btn wsp" id="resWa" target="_blank" rel="noopener noreferrer">Enviar por WhatsApp</a><button class="btn claro" id="resCopiar">Copiar</button>${navigator.share ? '<button class="btn claro" id="resCompartir">Compartir</button>' : ''}</div>
+        <details class="pn-det"><summary>Ver el texto</summary><pre class="envio-txt" id="resTxt"></pre></details>
+        <details class="pn-det"><summary>Recordatorio cada noche</summary>
+          <p class="sub" style="margin:6px 0 8px">Se agrega a tu calendario y te avisa a la hora que elijas para cerrar caja y enviarte esto.</p>
+          <div class="fila"><div><label for="recHora">Hora</label><select id="recHora">${[17, 18, 19, 20, 21, 22, 23].map(x => `<option value="${x}" ${x === horaCierre() ? 'selected' : ''}>${x - 12}:00 p. m.</option>`).join('')}</select></div>
+          <div class="auto"><a class="btn claro" id="recAgregar" href="recordatorio/cierre-${horaCierre()}.ics">Agregar a mi calendario</a></div></div></details>
+      </section>
     </div>
   </div>`;
   // Texto del resumen (negritas con *asteriscos*, formato de WhatsApp)

diff --git a/tests/2-flujos.spec.js b/tests/2-flujos.spec.js
@@ -220,13 +220,22 @@ test('Panel: compara contra ayer a la misma hora, no contra el día completo', a
   await page.clock.setFixedTime(new Date('2026-11-20T11:00:00-05:00'));
   await abrirDemo(page);
   await irA(page, 'panel');
-  await expect(page.locator('.heroe')).toContainText('vs. ayer a esta hora');
-  await expect(page.locator('.heroe')).toContainText('Ganancia bruta de hoy');
-  await expect(page.locator('.heroe')).not.toContainText('Ganas sobre el costo');
+  await expect(page.locator('.pn-kpis')).toContainText('ayer a esta hora');
+  await expect(page.locator('.pn-kpis')).toContainText('Ganancia bruta');
+  await expect(page.locator('.pn-kpis')).not.toContainText('Ganas sobre el costo');
+  await expect(page.locator('.pn-kpis')).not.toContainText('%  vs.');
   // El dato comparado es el tramo de ayer hasta las 11:00
   const esperado = await page.evaluate(async () => {
     const vs = (await sb.from('ventas').select('id, fecha, venta_detalles(subtotal, costo_total)').eq('estado', 'EMITIDA').gte('fecha', '2026-11-19T00:00:00-05:00').lte('fecha', new Date(Date.now() - 864e5).toISOString())).data;
     return vs.length;
   });
-  await expect(page.locator('.heroe')).toContainText(`ayer a esta hora: ${esperado}`);
+  await expect(page.locator('.pn-kpis')).toContainText(`ayer a esta hora: ${esperado}`);
+});
+
+test('Panel: sin ventas hoy no muestra porcentajes alarmantes', async ({ page, errores }) => {
+  await page.clock.setFixedTime(new Date('2026-11-20T07:05:00-05:00'));
+  await abrirDemo(page);
+  await irA(page, 'panel');
+  await expect(page.locator('.pn-kpis')).not.toContainText('100%');
+  await expect(page.locator('.pn-kpis .pn-kpi').first()).toContainText('S/ 0.00');
 });

diff --git a/sw.js b/sw.js
@@ -2,7 +2,7 @@
 // - La página (index.html): primero red, si no hay, la copia guardada (así las actualizaciones llegan solas).
 // - Librerías de jsDelivr y fuentes: versiones fijas, se guardan la primera vez y se reutilizan.
 // - Supabase (tus datos): nunca se guarda aquí; siempre va directo a la red.
-const CACHE_APP = 'caja-app-v33';
+const CACHE_APP = 'caja-app-v34';
 const CACHE_LIBS = 'caja-libs-v1';
 const APP = ['./', './index.html', './recordatorio/cierre-21.ics', './manifest.webmanifest', './icon-192.png', './icon-512.png', './icon-maskable-512.png', './apple-touch-icon.png', './favicon.png'];
 // Librerías que la app necesita para abrir sin internet (mismas versiones fijas que en index.html)

diff --git a/README.md b/README.md
@@ -43,6 +43,7 @@ Una app instalable en el celular (PWA), pensada para usarse con una mano detrás
 
 <p>
   <img src="docs/escritorio-panel.webp" width="720" alt="Panel en la computadora">
+  <img src="docs/escritorio-analisis.webp" width="720" alt="Análisis: tendencia, productos, inventario y hallazgos">
 </p>
 
 <p>
@@ -82,7 +83,7 @@ Lo más interesante del proyecto fue traducir criterios contables en reglas que 
 
 ![Pruebas](https://github.com/Sleepdong/caja/actions/workflows/pruebas.yml/badge.svg)
 
-Cada cambio publicado pasa por **78 pruebas** en un navegador real (Playwright), en tamaño laptop y celular. Corren contra la demo, así que nunca tocan la base real.
+Cada cambio publicado pasa por **80 pruebas** en un navegador real (Playwright), en tamaño laptop y celular. Corren contra la demo, así que nunca tocan la base real.
 
 | Grupo | Qué comprueba |
 |---|---|
